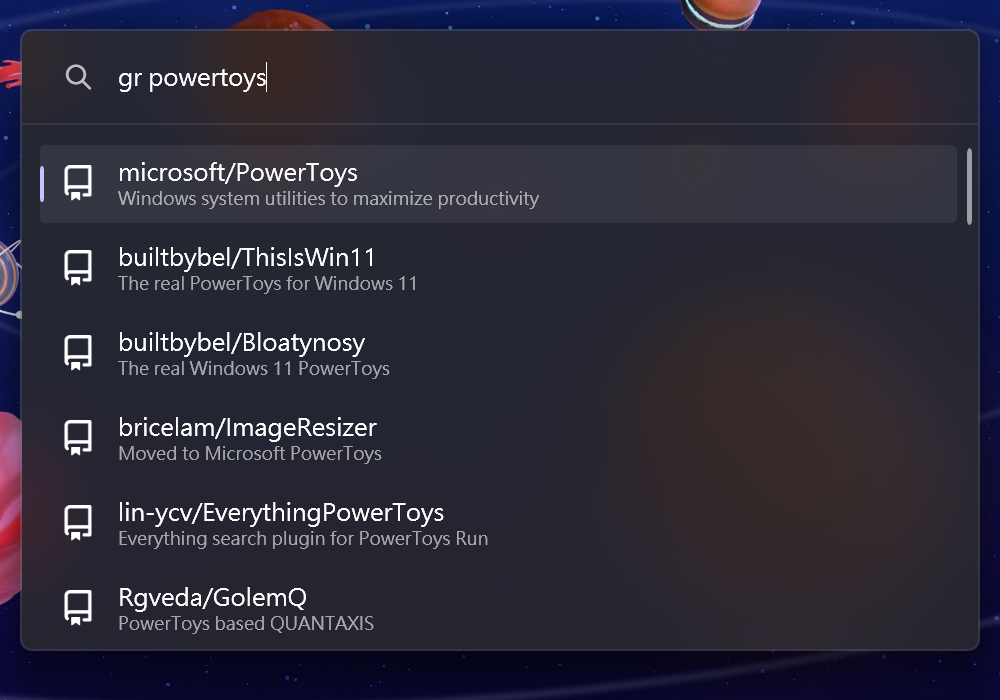
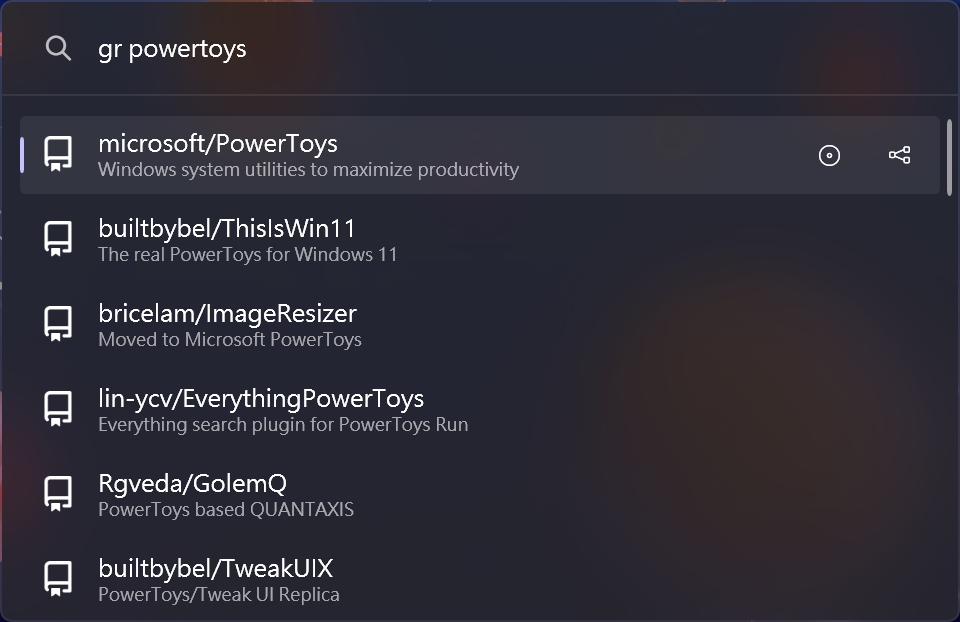
add context menu

Changed region(s): [[0.0, 0.0, 1.0, 1.0], [0.8438, 0.2444, 0.875, 0.2749]]

diff --git a/Properties/Resources.Designer.cs b/Properties/Resources.Designer.cs
@@ -10,8 +10,8 @@
 
 namespace Community.PowerToys.Run.Plugin.GitHubRepo.Properties {
     using System;
-
-
+    
+    
     /// <summary>
     ///   A strongly-typed resource class, for looking up localized strings, etc.
     /// </summary>
@@ -23,15 +23,15 @@ namespace Community.PowerToys.Run.Plugin.GitHubRepo.Properties {
     [global::System.Diagnostics.DebuggerNonUserCodeAttribute()]
     [global::System.Runtime.CompilerServices.CompilerGeneratedAttribute()]
     public class Resources {
-
+        
         private static global::System.Resources.ResourceManager resourceMan;
-
+        
         private static global::System.Globalization.CultureInfo resourceCulture;
-
+        
         [global::System.Diagnostics.CodeAnalysis.SuppressMessageAttribute("Microsoft.Performance", "CA1811:AvoidUncalledPrivateCode")]
         internal Resources() {
         }
-
+        
         /// <summary>
         ///   Returns the cached ResourceManager instance used by this class.
         /// </summary>
@@ -45,7 +45,7 @@ namespace Community.PowerToys.Run.Plugin.GitHubRepo.Properties {
                 return resourceMan;
             }
         }
-
+        
         /// <summary>
         ///   Overrides the current thread's CurrentUICulture property for all
         ///   resource lookups using this strongly typed resource class.
@@ -59,7 +59,7 @@ namespace Community.PowerToys.Run.Plugin.GitHubRepo.Properties {
                 resourceCulture = value;
             }
         }
-
+        
         /// <summary>
         ///   Looks up a localized string similar to GitHub authentication token.
         /// </summary>
@@ -68,7 +68,7 @@ namespace Community.PowerToys.Run.Plugin.GitHubRepo.Properties {
                 return ResourceManager.GetString("plugin_auth_token", resourceCulture);
             }
         }
-
+        
         /// <summary>
         ///   Looks up a localized string similar to Default user for searching.
         /// </summary>
@@ -77,7 +77,7 @@ namespace Community.PowerToys.Run.Plugin.GitHubRepo.Properties {
                 return ResourceManager.GetString("plugin_default_user", resourceCulture);
             }
         }
-
+        
         /// <summary>
         ///   Looks up a localized string similar to Default user is not set.
         /// </summary>
@@ -86,7 +86,7 @@ namespace Community.PowerToys.Run.Plugin.GitHubRepo.Properties {
                 return ResourceManager.GetString("plugin_default_user_not_set", resourceCulture);
             }
         }
-
+        
         /// <summary>
         ///   Looks up a localized string similar to Change in settings.
         /// </summary>
@@ -95,7 +95,7 @@ namespace Community.PowerToys.Run.Plugin.GitHubRepo.Properties {
                 return ResourceManager.GetString("plugin_default_user_not_set_description", resourceCulture);
             }
         }
-
+        
         /// <summary>
         ///   Looks up a localized string similar to Search a GitHub repository.
         /// </summary>
@@ -104,7 +104,7 @@ namespace Community.PowerToys.Run.Plugin.GitHubRepo.Properties {
                 return ResourceManager.GetString("plugin_description", resourceCulture);
             }
         }
-
+        
         /// <summary>
         ///   Looks up a localized string similar to Open github.com.
         /// </summary>
@@ -113,7 +113,7 @@ namespace Community.PowerToys.Run.Plugin.GitHubRepo.Properties {
                 return ResourceManager.GetString("plugin_empty_description", resourceCulture);
             }
         }
-
+        
         /// <summary>
         ///   Looks up a localized string similar to In {0}.
         /// </summary>
@@ -122,7 +122,7 @@ namespace Community.PowerToys.Run.Plugin.GitHubRepo.Properties {
                 return ResourceManager.GetString("plugin_in_browser_name", resourceCulture);
             }
         }
-
+        
         /// <summary>
         ///   Looks up a localized string similar to GitHubRepo.
         /// </summary>
@@ -131,7 +131,7 @@ namespace Community.PowerToys.Run.Plugin.GitHubRepo.Properties {
                 return ResourceManager.GetString("plugin_name", resourceCulture);
             }
         }
-
+        
         /// <summary>
         ///   Looks up a localized string similar to Repositories not found.
         /// </summary>
@@ -140,7 +140,25 @@ namespace Community.PowerToys.Run.Plugin.GitHubRepo.Properties {
                 return ResourceManager.GetString("plugin_no_results", resourceCulture);
             }
         }
-
+        
+        /// <summary>
+        ///   Looks up a localized string similar to Open issues.
+        /// </summary>
+        public static string plugin_open_issues {
+            get {
+                return ResourceManager.GetString("plugin_open_issues", resourceCulture);
+            }
+        }
+        
+        /// <summary>
+        ///   Looks up a localized string similar to Open pull requests.
+        /// </summary>
+        public static string plugin_open_pull_requests {
+            get {
+                return ResourceManager.GetString("plugin_open_pull_requests", resourceCulture);
+            }
+        }
+        
         /// <summary>
         ///   Looks up a localized string similar to Failed to open {0}..
         /// </summary>

diff --git a/Main.cs b/Main.cs
@@ -1,6 +1,7 @@
 using System.Globalization;
 using System.Text;
 using System.Windows.Controls;
+using System.Windows.Input;
 using Community.PowerToys.Run.Plugin.GitHubRepo.Properties;
 using LazyCache;
 using ManagedCommon;
@@ -12,7 +13,7 @@ using BrowserInfo = Wox.Plugin.Common.DefaultBrowserInfo;
 
 namespace Community.PowerToys.Run.Plugin.GitHubRepo
 {
-    public partial class Main : IPlugin, IPluginI18n, ISettingProvider, IReloadable, IDisposable, IDelayedExecutionPlugin
+    public partial class Main : IPlugin, IPluginI18n, ISettingProvider, IReloadable, IDisposable, IDelayedExecutionPlugin, IContextMenu
     {
         private static readonly CompositeFormat ErrorMsgFormat = CompositeFormat.Parse(Resources.plugin_search_failed);
         private static readonly CompositeFormat PluginInBrowserName = CompositeFormat.Parse(Resources.plugin_in_browser_name);
@@ -206,6 +207,53 @@ namespace Community.PowerToys.Run.Plugin.GitHubRepo
                 GitHub.RepoQuery(search).Result.Match(
                     ok: r => r.Items,
                     err: e => new List<GitHubRepo> { new(e.GetType().Name, string.Empty, e.Message, false) });
+        }
+
+        public List<ContextMenuResult> LoadContextMenus(Result selectedResult)
+        {
+            var fullName = selectedResult.Title;
+            var issue = $"https://github.com/{fullName}/issues";
+            var pr = $"https://github.com/{fullName}/pulls";
+            return [
+                new ContextMenuResult
+                {
+                    PluginName = Name,
+                    Title = Resources.plugin_open_issues,
+                    Glyph = "\xE958",
+                    FontFamily = "Segoe Fluent Icons,Segoe MDL2 Assets",
+                    AcceleratorKey = Key.D1,
+                    AcceleratorModifiers = ModifierKeys.Control,
+                    Action = _ =>
+                    {
+                        if (!Helper.OpenCommandInShell(BrowserInfo.Path, BrowserInfo.ArgumentsPattern, issue))
+                        {
+                            onPluginError!();
+                            return false;
+                        }
+
+                        return true;
+                    },
+                },
+                new ContextMenuResult
+                {
+                    PluginName = Name,
+                    Title = Resources.plugin_open_pull_requests,
+                    Glyph = "\xF003",
+                    FontFamily = "Segoe Fluent Icons,Segoe MDL2 Assets",
+                    AcceleratorKey = Key.D2,
+                    AcceleratorModifiers = ModifierKeys.Control,
+                    Action = _ =>
+                    {
+                        if (!Helper.OpenCommandInShell(BrowserInfo.Path, BrowserInfo.ArgumentsPattern, pr))
+                        {
+                            onPluginError!();
+                            return false;
+                        }
+
+                        return true;
+                    },
+                },
+            ];
         }
 
         public void Init(PluginInitContext context)
